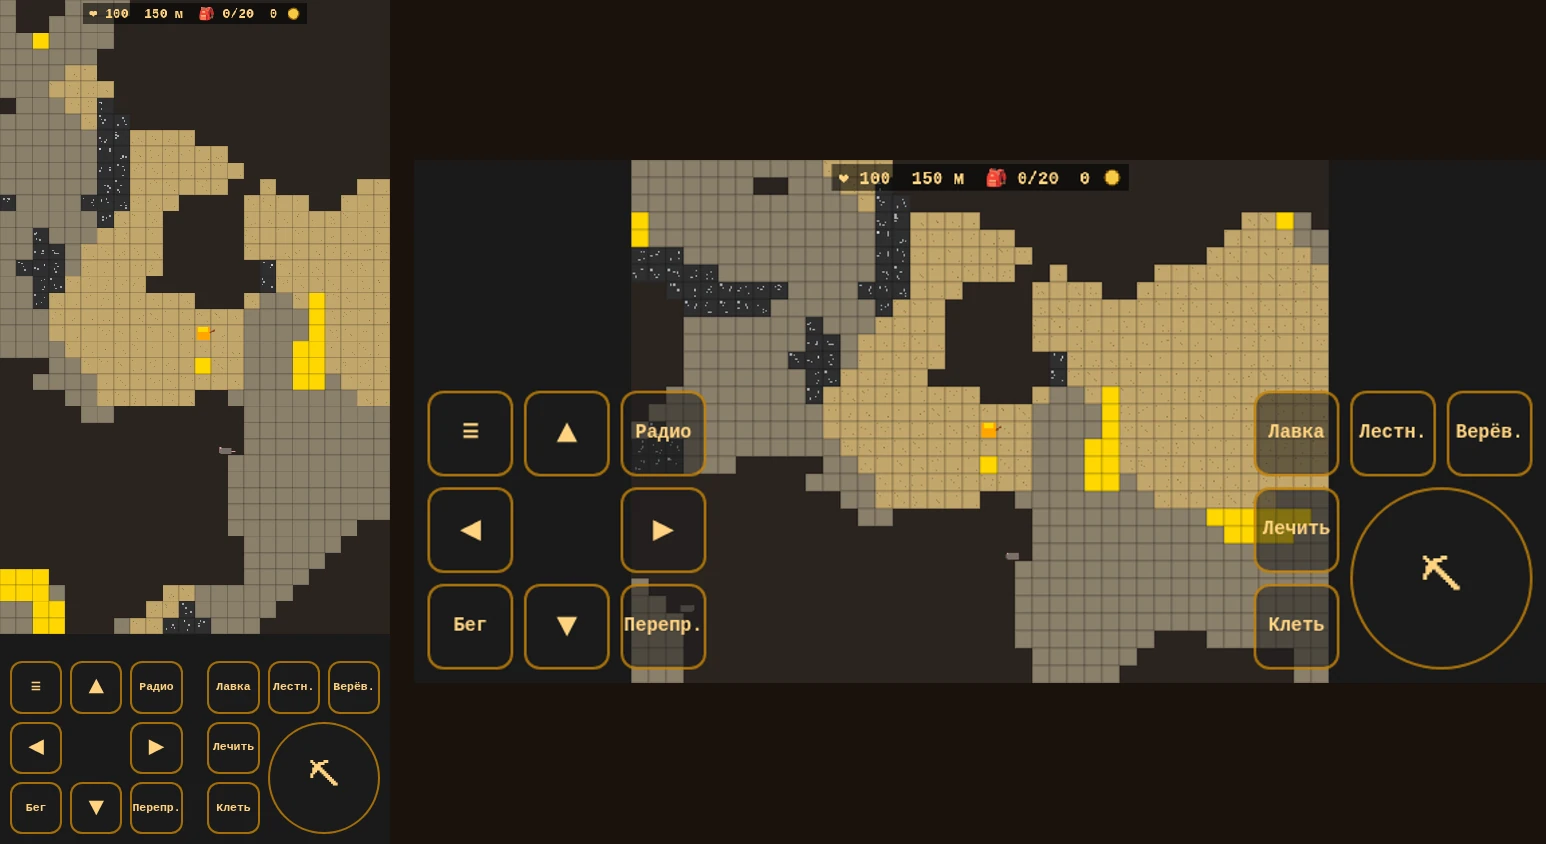
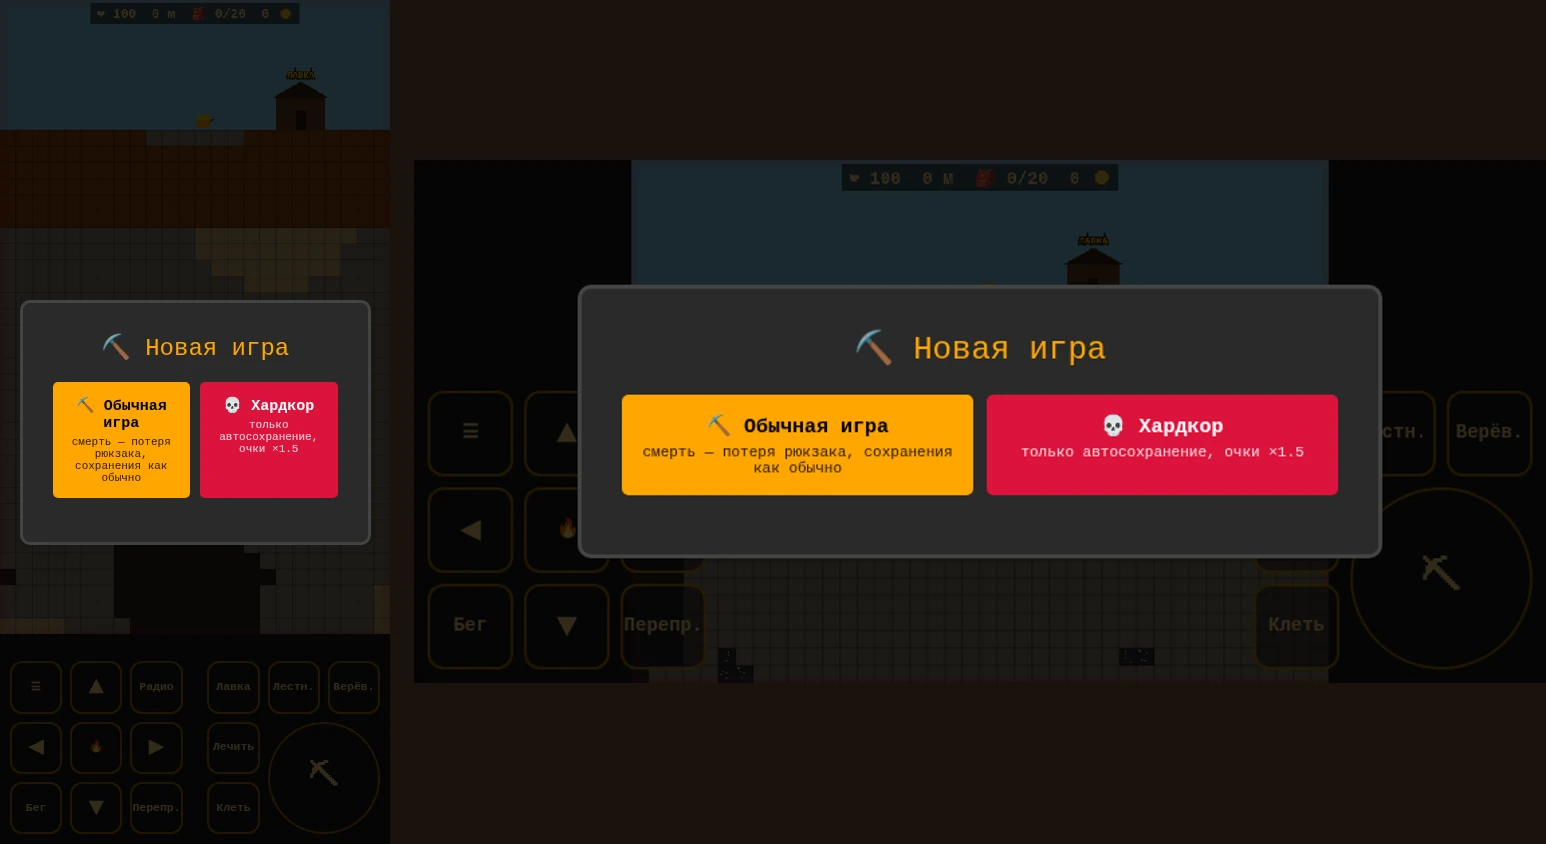
Игра 2.0.0

diff --git a/index.html b/index.html
@@ -244,6 +244,13 @@
     </figure>
 </div>
 
+<div class="wrap shot">
+    <figure>
+        <img src="img/goal.webp" alt="Выбор цели: платина наверх, дно шахты, состояние, мастер, свободная игра" width="600" height="442" loading="lazy">
+        <figcaption>В начале игры — режим и цель. Выполнил цель — финальный экран с итогами.</figcaption>
+    </figure>
+</div>
+
 <section class="wrap">
     <h2>Что тебя ждёт</h2>
     <ul class="features">
